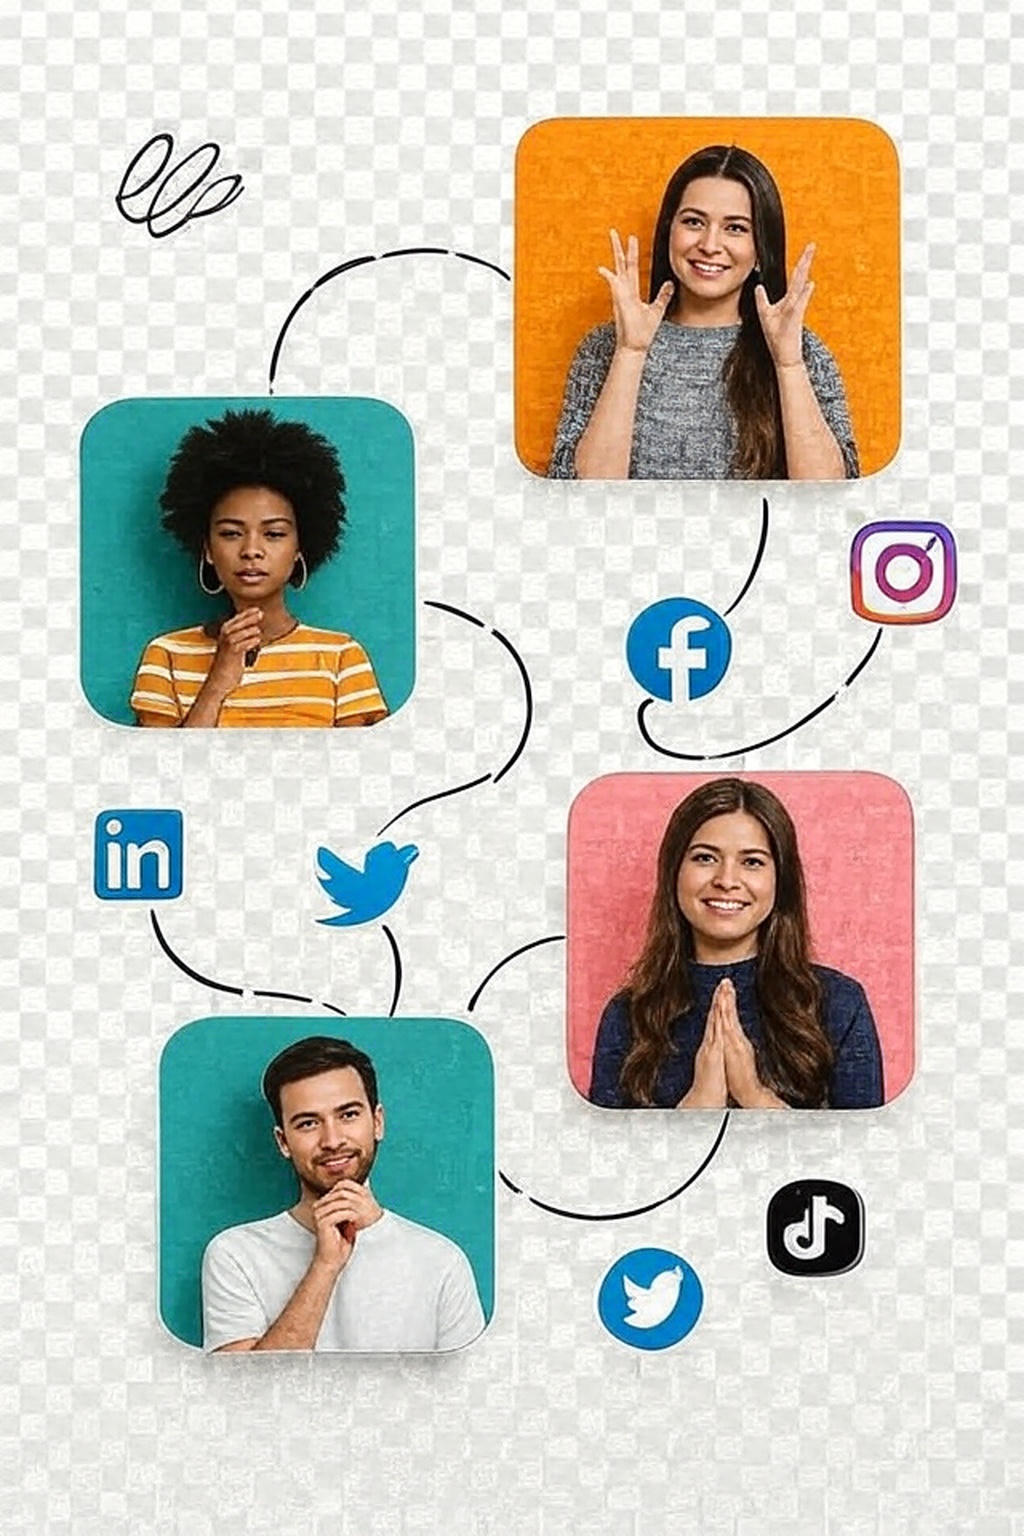
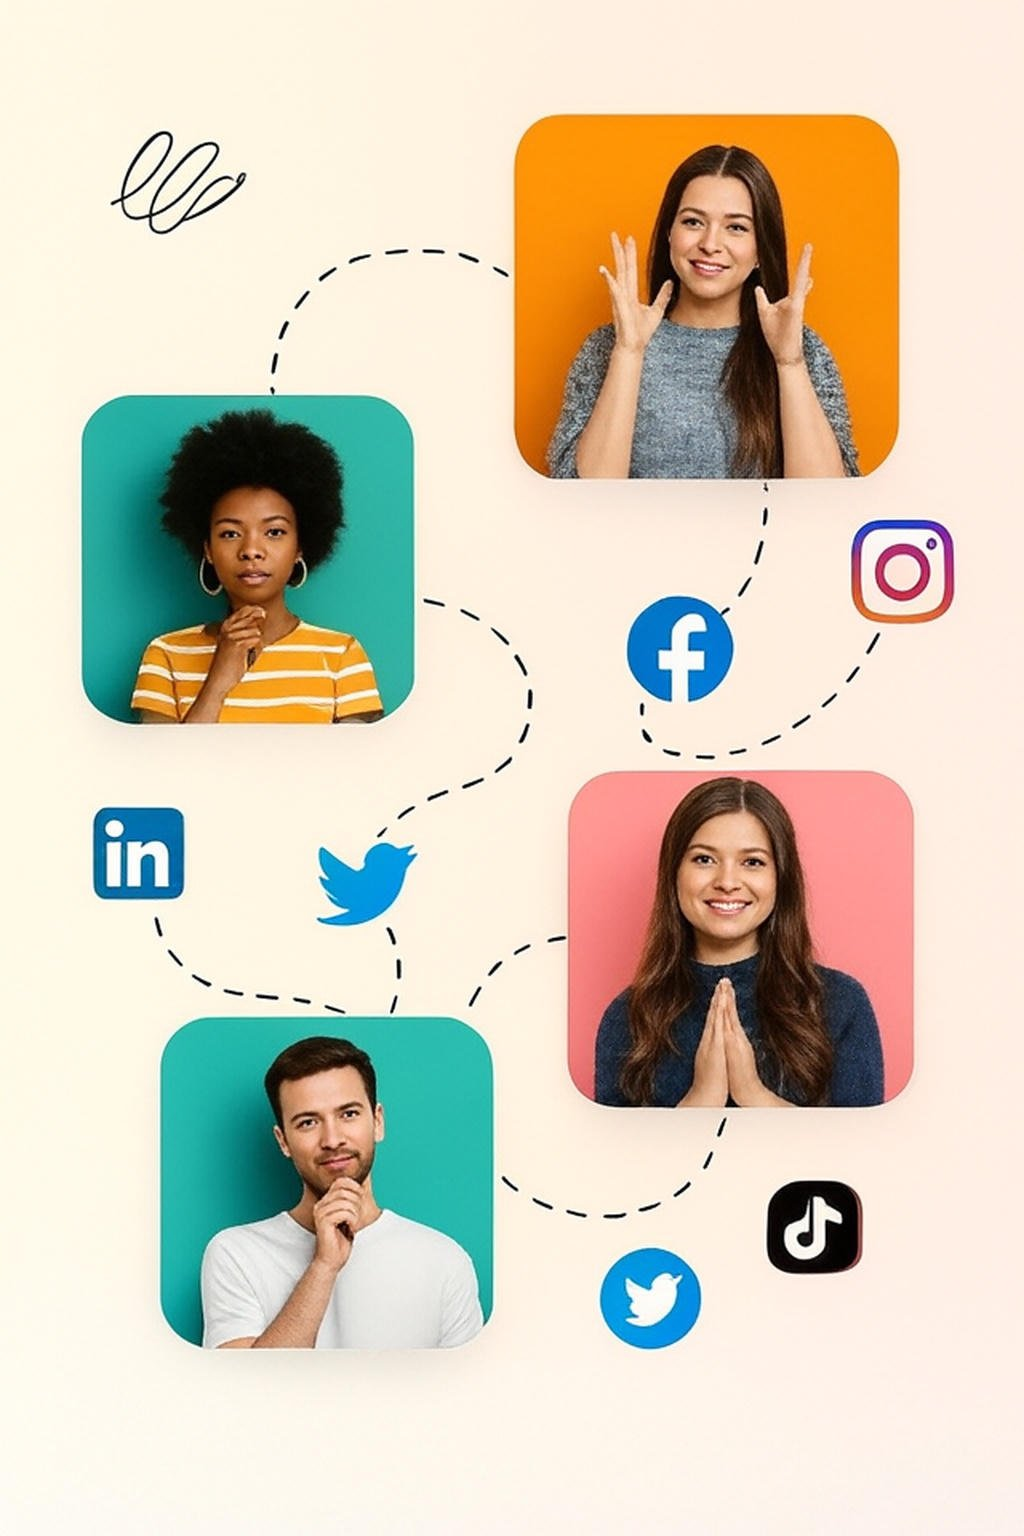
Refactor: Update hero image and blending

Changed region(s): [[0.0, 0.0, 1.0, 1.0], [0.0, 0.1562, 0.0312, 0.1875], [0.0, 0.0312, 0.0312, 0.0625]]

diff --git a/src/components/Hero.tsx b/src/components/Hero.tsx
@@ -34,7 +34,7 @@ const Hero = () => {
           <div className="relative flex items-center justify-center lg:justify-end">
             <div className="relative w-full max-w-[90vw] md:max-w-[500px] lg:max-w-[600px] mx-auto lg:mx-0">
               {/* Background matching hero gradient - fills transparent areas */}
-              <div className="absolute inset-0 gradient-bg rounded-3xl" />
+              <div className="absolute inset-0 gradient-bg" />
               
               {/* Image with gradient background showing through transparent areas */}
               <img 
